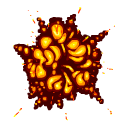
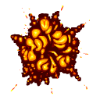
explosion and README update

diff --git a/sketch.py b/sketch.py
@@ -27,7 +27,7 @@ def imagesPreload():
   startImg = load_image('./assets/start-text.png')
 
   global spaceInvImg
-  spaceInvImg = load_image('./assets/Title2.png')
+  spaceInvImg = load_image('./assets/Title.png')
 
   global gameOverImg
   gameOverImg = load_image('./assets/GameOver.png')
@@ -107,7 +107,14 @@ def game():
 
     global frame
     frame = (frame + 1) % 12
-    image(explosionImages[frame], (spaceship.posX, spaceship.posY))
+    image(
+      explosionImages[frame],
+      (
+        spaceship.posX + randint(-spaceship.size/2, spaceship.size/2),
+        spaceship.posY + randint(-spaceship.size/2, spaceship.size/2)
+      )
+    )
+
   elif randint(1, 100) <= 3:
     enemies.append(Enemy(width, height))
 

diff --git a/README.md b/README.md
@@ -1,7 +1,9 @@
 # SPACE INVADERS 👾
 ## by Oscar Gonzalez, Blanca Ruiz and Pol Tedesko
 
-To test this game, clone this repository with:
+<img src="./assets/demo.webp" style="max-width: 400px"></img>
+
+To run this game, clone this repository with:
 ```bash
 $ git clone https://github.com/poltm13/space-invaders.git
 $ cd space-invaders
@@ -22,4 +24,4 @@ $ brew install glfw
 $ pip install p5 --user
 ```
 
-To play the game just run the sketch.py script
+To play the game just run the *sketch.py* script
